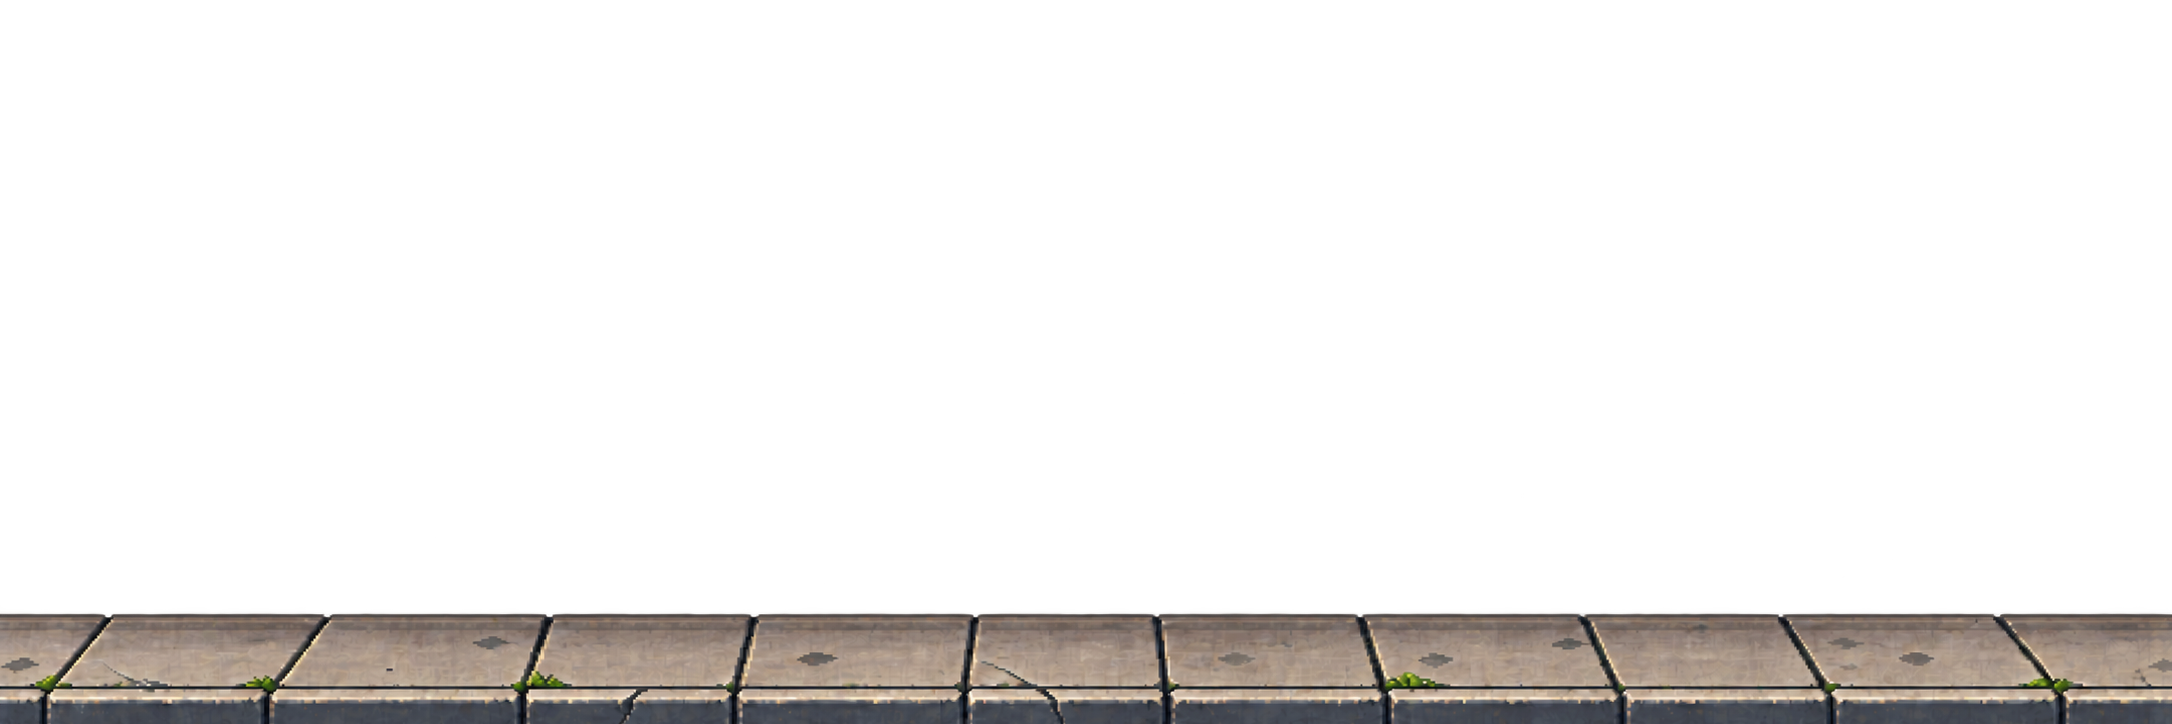
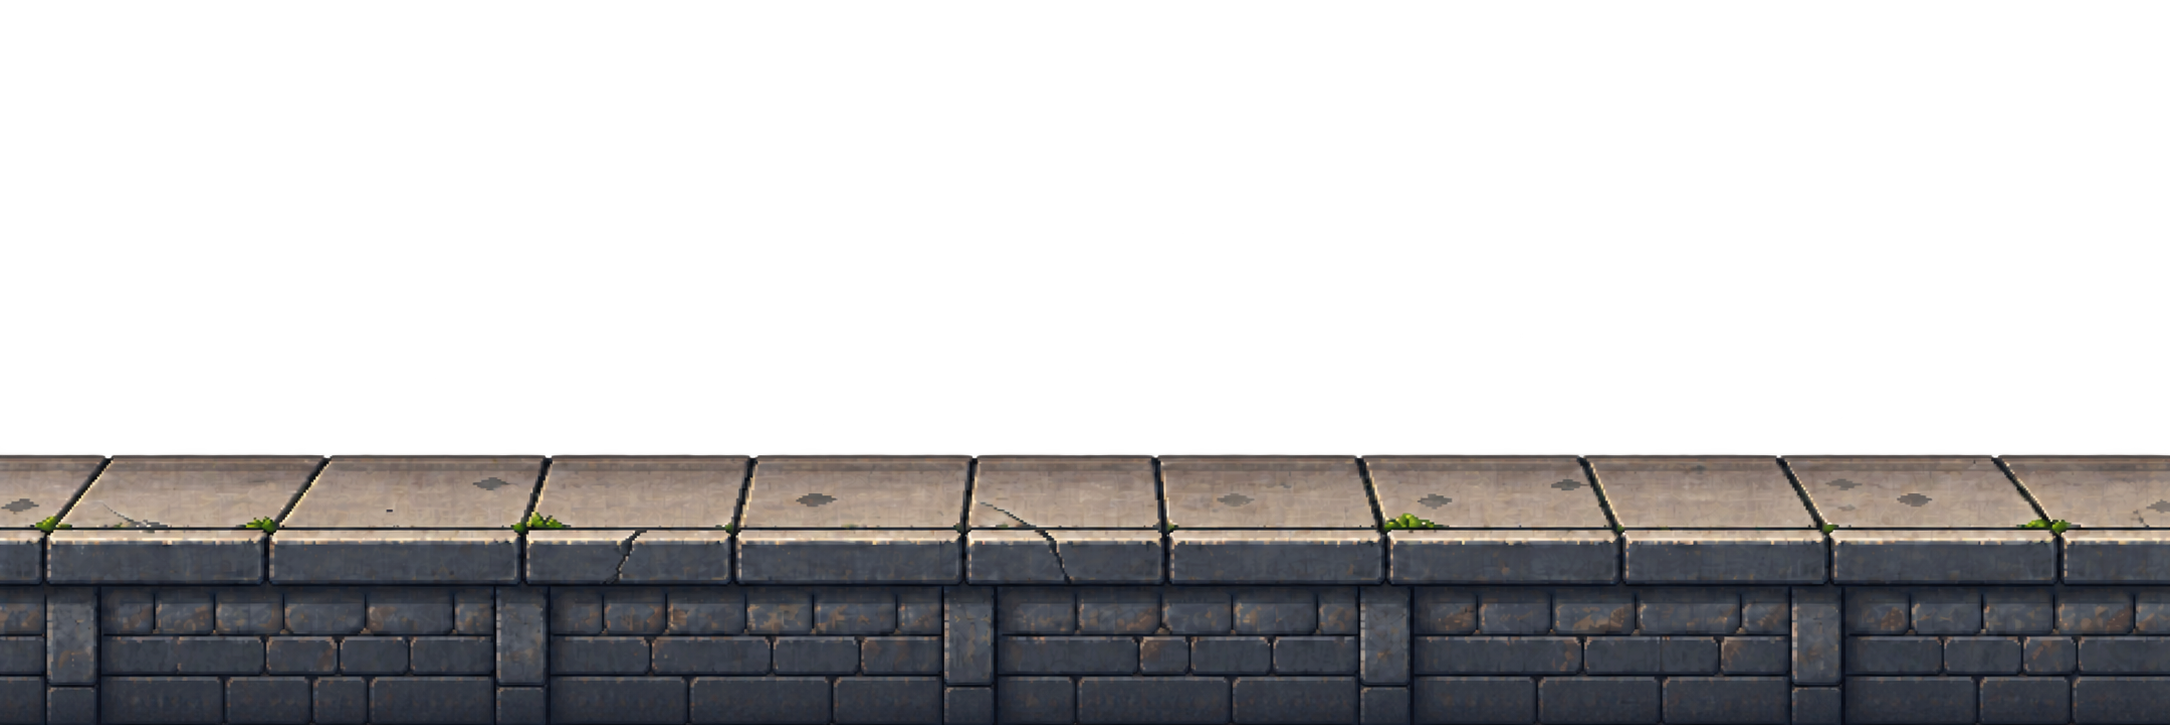
Use approved original NA03 ground

diff --git a/scripts/validate-phase8-pngs.js b/scripts/validate-phase8-pngs.js
@@ -17,6 +17,10 @@ const ASSETS = [
   "assets/phase8-validation/north-america/NA03_GROUND_CITY.png"
 ];
 
+const EXPECTED_DIMENSIONS = {
+  "assets/phase8-validation/north-america/NA03_GROUND_CITY.png": [2170, 725]
+};
+
 const CRC_TABLE = Array.from({length:256},(_,n)=>{
   let c=n;
   for(let k=0;k<8;k++)c=(c&1)?0xedb88320^(c>>>1):c>>>1;
@@ -51,7 +55,8 @@ function validatePng(relative){
     offset=end;
   }
   if(!ihdr||!idat.length||!ended||offset!==data.length)throw new Error(`${relative}: incomplete PNG structure`);
-  if(ihdr.width!==2172||ihdr.height!==724)throw new Error(`${relative}: expected 2172x724, got ${ihdr.width}x${ihdr.height}`);
+  const [expectedWidth,expectedHeight]=EXPECTED_DIMENSIONS[relative]||[2172,724];
+  if(ihdr.width!==expectedWidth||ihdr.height!==expectedHeight)throw new Error(`${relative}: expected ${expectedWidth}x${expectedHeight}, got ${ihdr.width}x${ihdr.height}`);
   if(ihdr.compression!==0||ihdr.filter!==0||ihdr.interlace!==0)throw new Error(`${relative}: unsupported PNG encoding`);
   const channels={0:1,2:3,3:1,4:2,6:4}[ihdr.colorType];
   if(!channels)throw new Error(`${relative}: unsupported color type ${ihdr.colorType}`);

diff --git a/src/js/game-runtime.js b/src/js/game-runtime.js
@@ -1404,7 +1404,7 @@ const ASSET_SOURCES={
  na02Ground:PHASE8_PILOT?"../assets/phase8-validation/north-america/NA02_GROUND_TRAIL.png?v=f6ada52c-verified":"../assets/worlds/north-america/NA02_GROUND_TRAIL.png",
  na03Far:PHASE8_PILOT?"../assets/phase8-validation/north-america/NA03_BG_DISTANT_NYC.png?v=be8f72c6":"../assets/worlds/north-america/NA03_BG_DISTANT_NYC.png",
  na03Mid:PHASE8_PILOT?"../assets/phase8-validation/north-america/NA03_BG_MID_CITY.png?v=3ea3319a":"../assets/worlds/north-america/NA03_BG_MID_CITY.png",
- na03Ground:PHASE8_PILOT?"../assets/phase8-validation/north-america/NA03_GROUND_CITY.png?v=c91ddde0":"../assets/worlds/north-america/NA03_GROUND_CITY.png",
+ na03Ground:PHASE8_PILOT?"../assets/phase8-validation/north-america/NA03_GROUND_CITY.png?v=095aa9cb":"../assets/worlds/north-america/NA03_GROUND_CITY.png",
  far:PHASE8_PILOT?"../assets/phase8-validation/north-america/NA01_BG_DISTANT_MESAS.png":"../assets/worlds/north-america/NA01_BG_DISTANT_MESAS.png",
  clouds:"../assets/shared/NA_CLOUD_LAYER.png"
 ,

diff --git a/docs/CURRENT_STATUS.md b/docs/CURRENT_STATUS.md
@@ -56,7 +56,7 @@ Production CI checks the production/development dependency boundary, syntax for 
 ## Next production step
 NA01 and NA02 landscape sets are approved. Dependent character/hazard grounding and later configuration calibration remain intentionally deferred until landscape generation is complete. NA03 is pending corrected complete-stage Git integration, deployed Design/Test/Game QA and one final user acceptance gate. It is not user-approved yet.
 
-The first NA03 recovery deployment used image-attachment proxy copies that had been resized in transit. The user supplied the actual generated files in a ZIP, preserving their true dimensions and bytes. FAR and MID now use the ZIP originals directly at 2172x724. GROUND is normalized from the true 2170x725 ZIP original to the required 2172x724 canvas with its first nontransparent row at source Y=393 and terrain continuing through Y=723. The proxy-derived hashes and cache keys are superseded.
[1 lines of base64/hex data omitted]
 
 Current pilot QA evidence: NA01's yellow legacy seam, red rendered GROUND surface and cyan rendered MID base coincide at canonical Y=410, so the cyan guide (drawn last) visually covers the other two. This is expected alignment, not a missing ground guide. Legacy NA02 retains separated calibration values, so its three evidence lines remain visibly distinct.
 

diff --git a/docs/DECISION_LOG.md b/docs/DECISION_LOG.md
@@ -153,3 +153,9 @@ The proxy-derived NA03 files and their hashes above are superseded and are not a
[3 lines of base64/hex data omitted]
+
+## 2026-09-18 — User-approved NA03 GROUND attachment supersedes reconstructed ZIP derivative
+
[1 lines of base64/hex data omitted]
+
[1 lines of base64/hex data omitted]

diff --git a/docs/PHASE8_LANDSCAPE_PROMPT_MANIFEST.md b/docs/PHASE8_LANDSCAPE_PROMPT_MANIFEST.md
@@ -128,8 +128,9 @@ Create the GROUND gameplay layer on a transparent 2172 x 724 canvas. Author one 
 
 - Reference: `assets-original/current-generated/NA-assets/NA03_GROUND_CITY.png`
 - Candidate: `assets/phase8-validation/north-america/NA03_GROUND_CITY.png`
-- Status: INTERNAL QA COMPLETE — pending integrated-stage user acceptance
[1 lines of base64/hex data omitted]
+- Status: USER-SUPPLIED GROUND APPROVED — pending integrated-stage user acceptance
[1 lines of base64/hex data omitted]
+- Source dimensions: `2170x725` RGBA; preserved byte-for-byte from the ZIP original matching the user's approved attachment, without resizing, translation or reconstruction.
 - Layer directive: GROUND
 - Stage lock: Preserve the level gray sidewalk slabs, curb edge, dark masonry/substructure and occasional restrained weeds. Maintain a clean urban running surface and continuous depth; do not add buildings, road traffic, street props or hazards.
 
